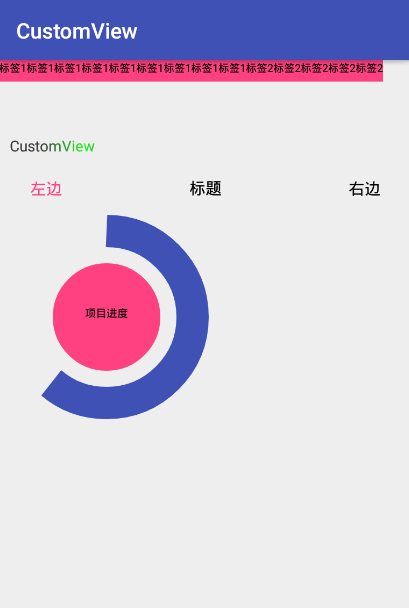
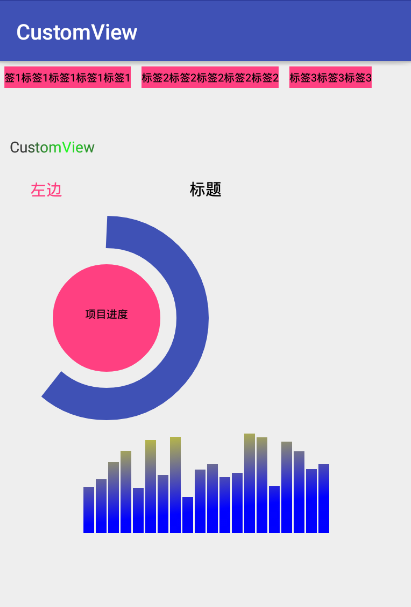
添加音频条形图自定义View及其使用方法

diff --git a/app/src/main/java/com/codekong/customview/view/AudioBarGraph.java b/app/src/main/java/com/codekong/customview/view/AudioBarGraph.java
@@ -1,0 +1,116 @@
+package com.codekong.customview.view;
+
+import android.content.Context;
+import android.content.res.TypedArray;
+import android.graphics.Canvas;
+import android.graphics.Color;
+import android.graphics.LinearGradient;
+import android.graphics.Paint;
+import android.graphics.Shader;
+import android.util.AttributeSet;
+import android.view.View;
+
+import com.codekong.customview.R;
+
+/**
+ * Created by szh on 2017/1/24.
+ * 音频条形图
+ */
+
+public class AudioBarGraph extends View {
+    //渐变色顶部颜色
+    private int mTopColor;
+    //渐变色底部颜色
+    private int mBottomColor;
+    //View重绘延时时间
+    private int mDelayTime;
+
+    //小矩形的数目
+    private int mRectCount;
+    //每个小矩形的宽度
+    private int mRectWidth;
+    //每个小矩形的高度
+    private int mRectHeight;
+    //每个小矩形之间的偏移量
+    private float mOffset;
+    //绘制小矩形的画笔
+    private Paint mPaint;
+    //View的宽度
+    private int mViewWidth;
+    //产生渐变效果
+    private LinearGradient mLinearGradient;
+    //每个小矩形的当前高度
+    private float[] mCurrentHeight;
+    public AudioBarGraph(Context context) {
+        this(context, null);
+    }
+
+    public AudioBarGraph(Context context, AttributeSet attrs) {
+        this(context, attrs, 0);
+    }
+
+    public AudioBarGraph(Context context, AttributeSet attrs, int defStyleAttr) {
+        super(context, attrs, defStyleAttr);
+        mOffset = 5;
+        mRectCount = 10;
+        mPaint = new Paint();
+        mPaint.setAntiAlias(true);
+        mPaint.setStyle(Paint.Style.FILL);
+
+        TypedArray ta = context.obtainStyledAttributes(attrs, R.styleable.AudioBarGraph);
+        mRectCount = ta.getInt(R.styleable.AudioBarGraph_rectCount, 10);
+        mOffset = ta.getFloat(R.styleable.AudioBarGraph_rectOffset, 3);
+        mDelayTime = ta.getInt(R.styleable.AudioBarGraph_delayTime, 300);
+        mTopColor = ta.getColor(R.styleable.AudioBarGraph_topColor, Color.YELLOW);
+        mBottomColor = ta.getColor(R.styleable.AudioBarGraph_bottomColor, Color.BLUE);
+        ta.recycle();
+    }
+
+    @Override
+    protected void onMeasure(int widthMeasureSpec, int heightMeasureSpec) {
+        int widthMode = MeasureSpec.getMode(widthMeasureSpec);
+        int heightMode = MeasureSpec.getMode(heightMeasureSpec);
+        int widthSize = MeasureSpec.getSize(widthMeasureSpec);
+        int heightSize = MeasureSpec.getSize(heightMeasureSpec);
+
+        int width = 200;
+        int height = 200;
+
+        setMeasuredDimension(widthMode == MeasureSpec.EXACTLY ? widthSize : width,
+                heightMode == MeasureSpec.EXACTLY ? heightSize : height);
+    }
+
+    @Override
+    protected void onDraw(Canvas canvas) {
+        super.onDraw(canvas);
+        if (mCurrentHeight != null){
+            for (int i = 0; i < mRectCount; i++) {
+                int random = (int) (Math.random() * 50);
+                canvas.drawRect((float) (mViewWidth * 0.4 / 2 + mRectWidth * i + mOffset), mCurrentHeight[i] + random,
+                        (float) (mViewWidth * 0.4 / 2 + mRectWidth * (i + 1)), mRectHeight, mPaint);
+            }
+        }else{
+            for (int i = 0; i < mRectCount; i++) {
+                int currentHeight = 0;
+                canvas.drawRect((float) (mViewWidth * 0.4 / 2 + mRectWidth * i + mOffset), currentHeight,
+                        (float) (mViewWidth * 0.4 / 2 + mRectWidth * (i + 1)), mRectHeight, mPaint);
+            }
+        }
+        postInvalidateDelayed(mDelayTime);
+    }
+
+    @Override
+    protected void onSizeChanged(int w, int h, int oldw, int oldh) {
+        super.onSizeChanged(w, h, oldw, oldh);
+        mViewWidth = getMeasuredWidth();
+        mRectHeight = getMeasuredHeight();
+        mRectWidth = (int) (mViewWidth * 0.6 / mRectCount);
+        mLinearGradient = new LinearGradient(0, 0, mRectWidth, mRectHeight,
+                mTopColor, mBottomColor, Shader.TileMode.CLAMP);
+        mPaint.setShader(mLinearGradient);
+    }
+
+    public void setCurrentHeight(float[] currentHeight){
+        mCurrentHeight = currentHeight;
+    }
+}

diff --git a/app/src/main/java/com/codekong/customview/activity/MainActivity.java b/app/src/main/java/com/codekong/customview/activity/MainActivity.java
@@ -6,6 +6,7 @@ import android.os.Bundle;
 import android.view.View;
 
 import com.codekong.customview.R;
+import com.codekong.customview.view.AudioBarGraph;
 import com.codekong.customview.view.FlowLayout;
 import com.codekong.customview.view.TextFlashingTextView;
 import com.codekong.customview.view.TopBar;
@@ -41,5 +42,12 @@ public class MainActivity extends AppCompatActivity {
         topBar.setBtnVisibility(0, true);
         //隐藏右边按钮
         topBar.setBtnVisibility(1, false);
+
+        AudioBarGraph audioBarGraph = (AudioBarGraph) findViewById(R.id.id_abg);
+        float[] m = new float[20];
+        for (int i = 0; i < m.length; i++) {
+            m[i] = (float) (Math.random() * 100);
+        }
+        audioBarGraph.setCurrentHeight(m);
     }
 }

diff --git a/README.md b/README.md
@@ -138,3 +138,31 @@ textContent                     ----------   内部文字的内容
 startAngle                      ----------   外圆(弧线)的开始角度
 sweepAngle                      ----------   外圆(弧线)的扫过的角度
 ```
+
+## 5. 音频条形图
+### 使用方法:
+```
+<com.codekong.customview.view.AudioBarGraph
+    android:id="@+id/id_abg"
+    android:layout_width="match_parent"
+    android:layout_height="wrap_content"
+    app:rectCount="20"/>
+```
+#### 可配置属性
+```
+rectCount       ----------   小矩形的数目
+rectOffset      ----------   每一个小矩形之间的偏移量
+topColor        ----------   一个小矩形渐变的顶部颜色
+bottomColor     ----------   一个小矩形渐变的顶部颜色
+delayTime       ----------   小矩形变化的延时时间(毫秒)
+```
+#### 可配置属性:
+```
+AudioBarGraph audioBarGraph = (AudioBarGraph) findViewById(R.id.id_abg);
+float[] m = new float[20];
+for (int i = 0; i < m.length; i++) {
+    m[i] = (float) (Math.random() * 100);
+}
+//通过代码设置每个小矩形的当前高度,使其高度动态变化
+audioBarGraph.setCurrentHeight(m);
+```
